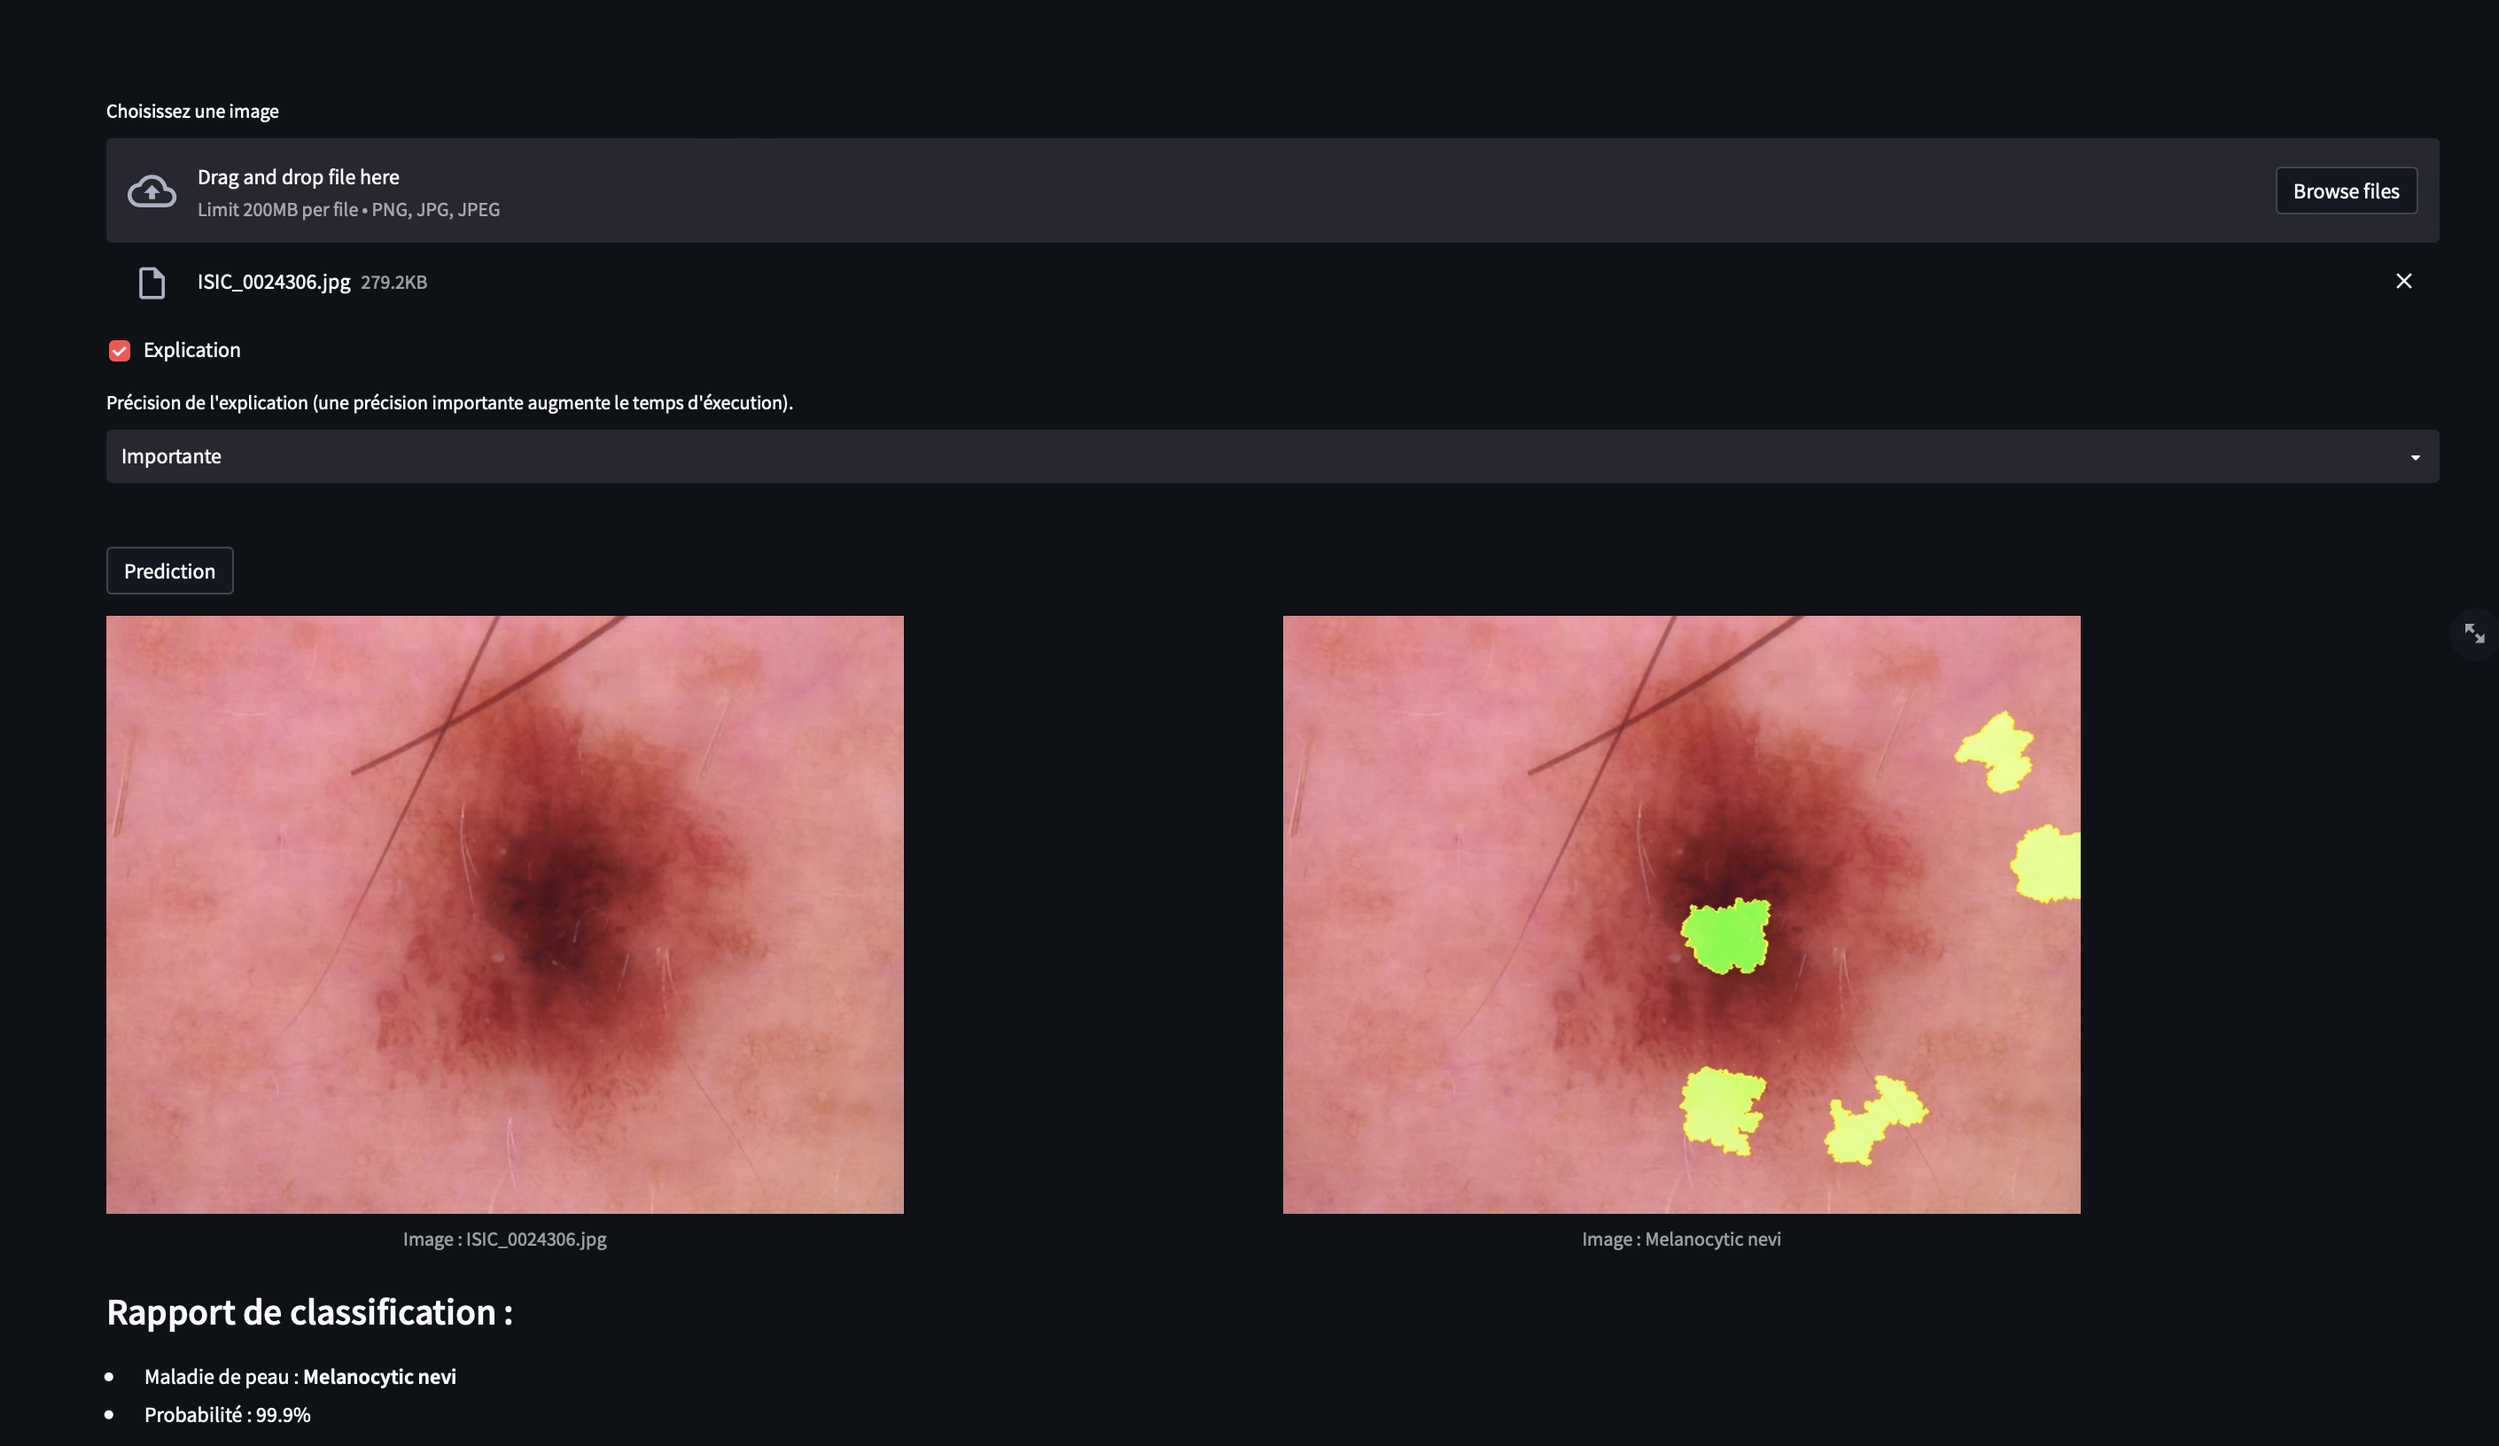
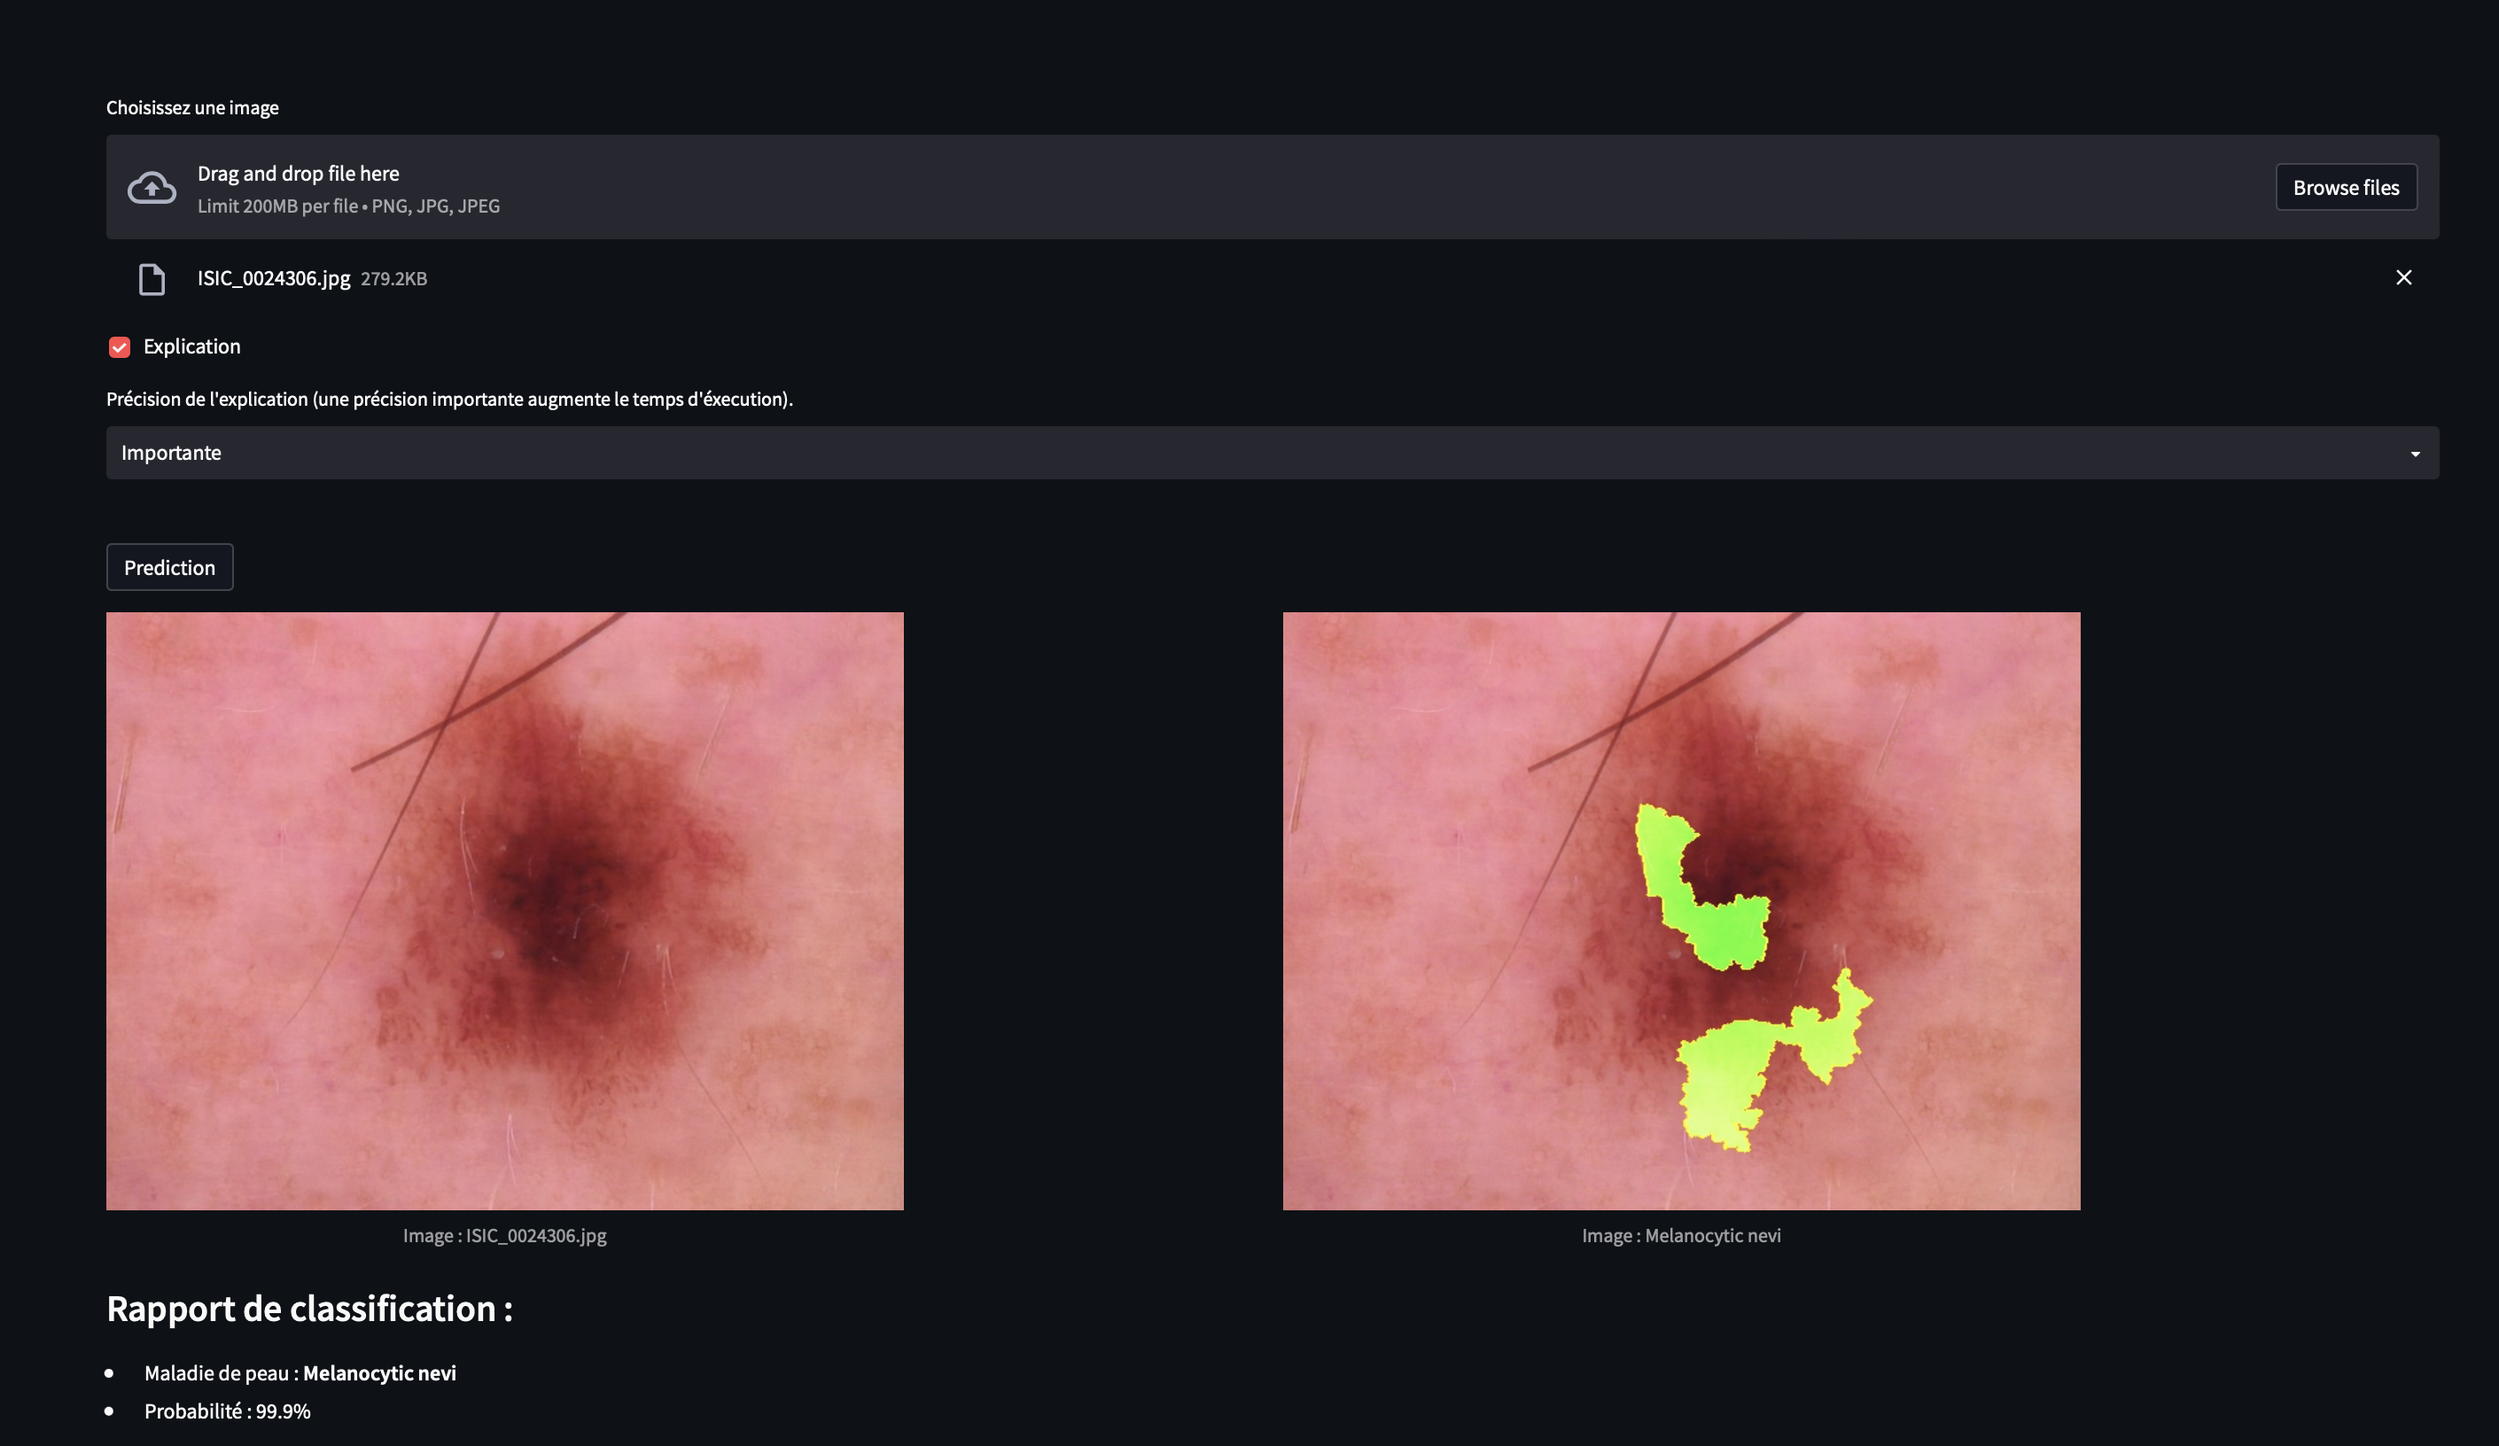
(update) files

diff --git a/main_train.py b/main_train.py
@@ -26,9 +26,10 @@ if __name__ == '__main__':
     parser.add_argument("root", nargs=1, help='Root to the images')
     parser.add_argument("--epochs", type=int, default=15,
                         help="Number of epochs to train the model. Default: 15")
-    parser.add_argument("--modelname", type=str, default="model/model_mlbio.pth",
-                        help="Name of the model to save. Default: model/model_mlbio.pth")
+    parser.add_argument("--modelname", type=str, default="model/model_resnet34.pth",
+                        help="Name of the model to save. Default: model/model_resnet34.pth")
     parser.add_argument("--fine_tune", action="store_true", help="If the model should be fine tuned")
+    parser.add_argument("--type", type=str, default="resnet34", help="Type of model to train (resnet18 or resnet34). Default: resnet34")
     args = parser.parse_args()
     
     dataset_train = HAM10000.load_from_file(args.root[0], train=True, transform=train_transform)
@@ -42,7 +43,7 @@ if __name__ == '__main__':
     device = "cuda" if torch.cuda.is_available() else "cpu"
    
     fine_tune = args.fine_tune or False 
-    model = HAM10000_model(7, fine_tune=fine_tune).to(device)
+    model = HAM10000_model(7, fine_tune=fine_tune, model_type=args.type).to(device)
     loss_function = nn.CrossEntropyLoss()
     if fine_tune:
         optimizer = torch.optim.Adam(model.fc.parameters())

diff --git a/src/model.py b/src/model.py
@@ -1,18 +1,22 @@
 import torchvision.models as models
 from torch import nn
 
-def HAM10000_model(output_dim: int, fine_tune=False) -> nn.Module:
+def HAM10000_model(output_dim: int, fine_tune=False, model_type='resnet18') -> nn.Module:
     """Return a model for the HAM10000 dataset.
 
     Args:
         output_dim (int): Dimension of the output.
         fine_tune (bool, optional): If True, fine tune the model (train the last layer). Defaults to False.
+        model_type (str, optional): Model to use ('resnet18' or 'resnet34'). Defaults to 'resnet18'.
 
     Returns:
         nn.Module: Model for the HAM10000 dataset.
     """
     
-    model = models.resnet18(weights=models.ResNet18_Weights.DEFAULT)
+    if model_type == 'resnet18':
+        model = models.resnet18(weights=models.ResNet18_Weights.DEFAULT)
+    else:
+        model = models.resnet34(weights=models.ResNet34_Weights.DEFAULT)
     
     if fine_tune:
         for param in model.parameters():

diff --git a/src/server.py b/src/server.py
@@ -7,6 +7,9 @@ import io
 import torch
 from torchvision import transforms
 from PIL import Image
+import os
+
+MODEL = os.environ.get("MODEL", "resnet34")
 
 app = Flask(__name__)
 
@@ -22,12 +25,12 @@ LESION_TYPE = {
 
 PRECISION = {
     "Faible": 50,
-    "Moyenne": 400,
-    "Importante": 1500,
+    "Moyenne": 200,
+    "Importante": 1000,
 }
 
-model = HAM10000_model(len(LESION_TYPE))
-model.load_state_dict(torch.load("/code/model/model_mlbio.pth"))
+model = HAM10000_model(len(LESION_TYPE), model_type=MODEL)
+model.load_state_dict(torch.load(f"/code/model/model_{MODEL}.pth"))
 
 transform = transforms.Compose([
             transforms.ToTensor(), # Scale image to [0, 1]

diff --git a/README.md b/README.md
@@ -12,16 +12,18 @@ Les formes vertes indiquent les zones qui ont été utilisées pour expliquer la
 
 ### Training data et performance du modèle
 
-Pour atteindre cet objectif, nous avons entraîné notre modèle en utilisant le jeu de données HAM10000 avec 2140 exemples d'entraînement et 795 exemples de validation. Nous avons réentraîné le modèle ResNet18 sur 15 époques (duré d'entrainememt ~1h) et conservé le modèle le plus performant. Nous avons obtenu une précision de 81% sur les donées d'entraînement et de 73% sur les donées de test.
+Pour atteindre cet objectif, nous avons entraîné notre modèle en utilisant le jeu de données HAM10000 avec 2140 exemples d'entraînement et 795 exemples de validation. Nous avons réentraîné le modèle ResNet34 sur 15 époques (duré d'entrainememt ~1h15) et conservé le modèle le plus performant. Nous avons obtenu une précision de 81% sur les donées d'entraînement et de 73% sur les donées de test.
 
 Un modèle pré-entraîné est déjà disponible (et utilisé pour la classification), mais vous pouvez le ré-entraîner en utilisant la commande suivante :
 
 ```bash
-python main_train.py [-h] [--epochs EPOCHS] [--modelname MODELNAME] root
+python main_train.py [-h] [--epochs EPOCHS] [--modelname MODELNAME] [--fine_tune] [--type TYPE] root
 ```
 
 - --epochs EPOCHS : Nombre d'époques d'apprentissage (par défaut : 15)
-- --modelname MODELNAME : Nom du modèle à sauvegarder (par défaut : 'model/model_mlbio.pth')
+- --modelname MODELNAME : Nom du modèle à sauvegarder (par défaut : 'model/model_resnet34.pth')
+- --fine_tune : Ré-entraîne seulement le dernier layer du modèle (par défaut : False)
+- --type : Type de modèle à entrainer ('resnet18' ou 'resnet34') (par défaut : 'resnet34')
 - root : chemin d'accès au répertoire contenant les images d'entraînement. Ce répertoire doit contenir un fichier nommé *HAM10000_metadata.csv* avec les métadonnées et deux sous-répertoires, *HAM10000_images_train* et *HAM10000_images_test*, contenant respectivement les images d'entraînement et de test.", example si-dessous :
 
 ```bash
@@ -44,6 +46,8 @@ Ce projet comprend un serveur qui permet aux utilisateurs, en envoyant leurs ima
 ```bash
 docker-compose up -d.
 ```
+
+Le serveur peut utiliser deux types de modèle : *resnet18* ou *resnet34*. Le modèle utilisé par défaut est *resnet34*, mais vous pouvez le changer en modifiant la variable d'environnement *MODEL* dans le fichier *docker-compose.yml*.
 
 ### Interface graphique
 
